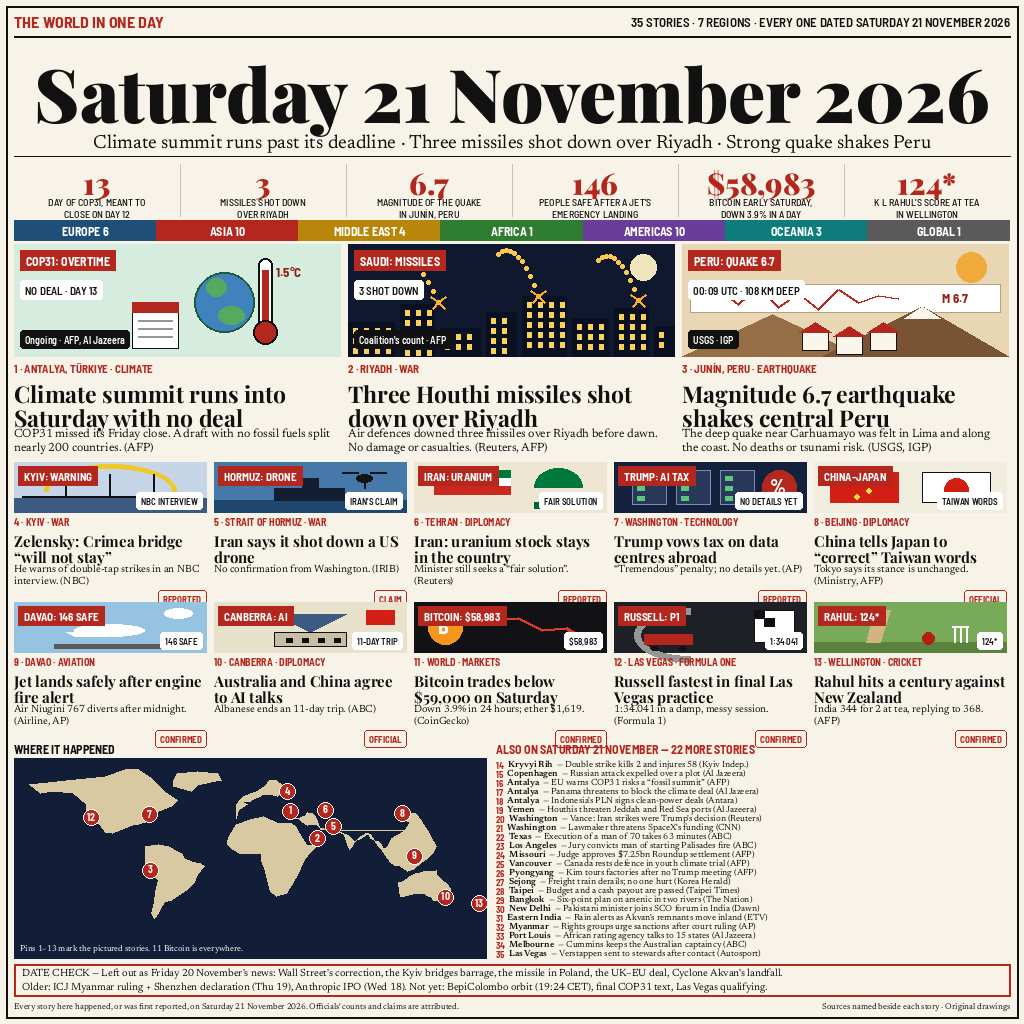
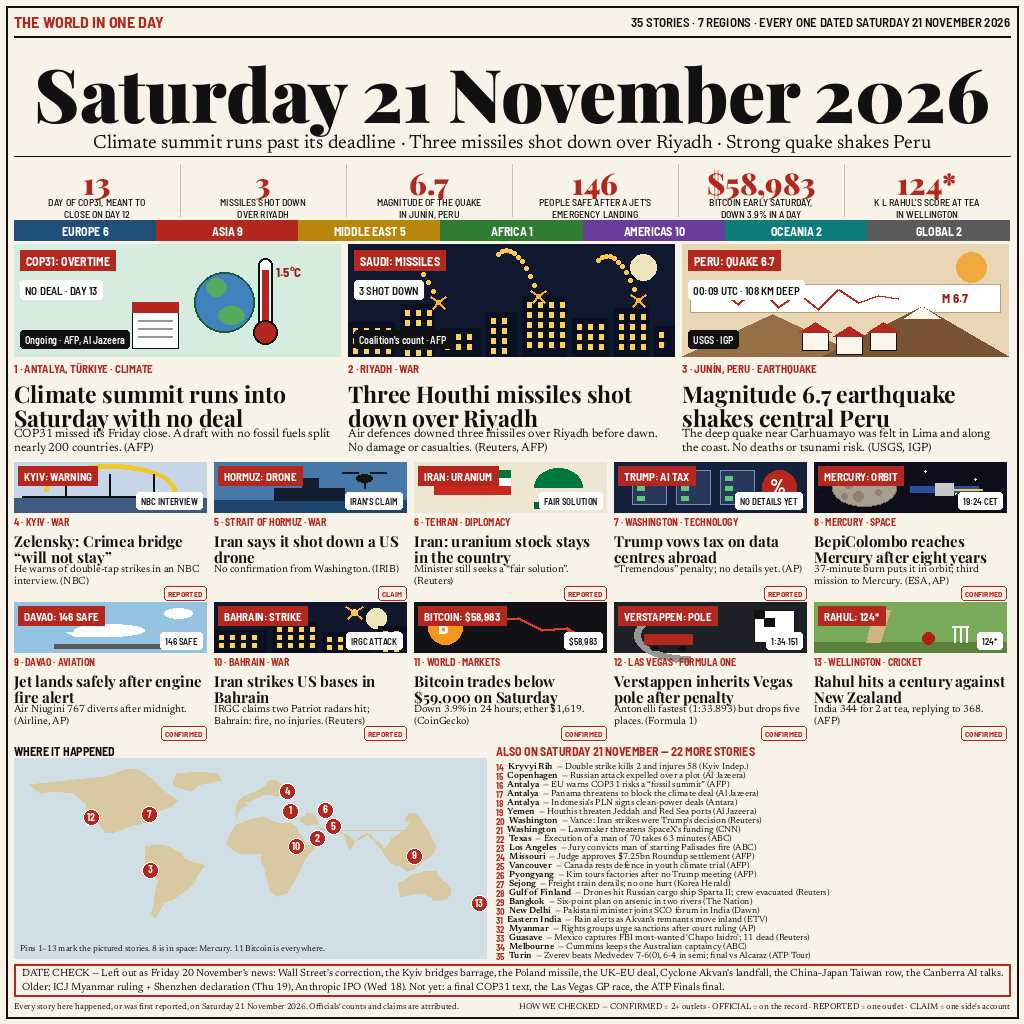
news-image-20261121 v2: Saturday-evening edition (BepiColombo, Bahrain, Vegas quali)
- Card 8: BepiColombo reaches Mercury (19:24 CET, CONFIRMED) replaces
  Fri-20 China-Japan card; card 10: Iran strikes US bases in Bahrain
  (REPORTED, IRGC claim attributed) replaces Fri-20 Canberra AI card
- Card 12: Las Vegas qualifying (Verstappen inherits pole, 1:34.151)
- Briefs: Sparta II drone strike (28), Chapo Isidro capture (33),
  Zverev beats Medvedev (35)
- Layout fix: tag chips shrunk (font 8, pad 4, ky+70), bottom headers
  to y=744 - chip/header overlap gone
- Pale map (sea 208,222,230), pin 8 removed (in space: Mercury),
  pin 10 moved to Bahrain; HOW WE CHECKED legend in footer
- DATE CHECK rewritten: Fri-20 list gains the two displaced cards;
  BepiColombo out of Not yet
- Image 1024x1024, 182,364 bytes (q54), deterministic

diff --git a/compose.py b/compose.py
@@ -8,7 +8,7 @@ field (see ~/workspace/makefun/news21-analysis/field-analysis.md):
 masthead + huge serif date + subhead + 6-figure numbers strip +
 coloured segmented region bar + 3 large illustrated leads + 10
 illustrated cards with banner kickers + data chips + CONFIRMED/CLAIM/
-REPORTED tag chips + dark navy map with numbered pins + 22 briefs +
+REPORTED tag chips + pale map with numbered pins + 22 briefs +
 boxed DATE CHECK + sources footer.
 """
 
@@ -23,7 +23,7 @@ FONTS = os.path.join(HERE, "fonts")
 PAPER = (247, 243, 232)
 INK = (17, 17, 17)
 NAVY = (20, 33, 61)
-NAVY_MAP = (18, 30, 56)
+SEA_PALE = (208, 222, 230)  # pale sea, top-3 consensus (v2)
 RED = (179, 39, 30)
 RED_DARK = (150, 28, 22)
 CREAM_PANEL = (250, 246, 236)
@@ -38,12 +38,12 @@ TEAL = (14, 124, 123)
 
 REGION_COLORS = [
     ("EUROPE", 6, BLUE),
-    ("ASIA", 10, RED),
-    ("MIDDLE EAST", 4, GOLD),
+    ("ASIA", 9, RED),
+    ("MIDDLE EAST", 5, GOLD),
     ("AFRICA", 1, GREEN),
     ("AMERICAS", 10, PURPLE),
-    ("OCEANIA", 3, TEAL),
-    ("GLOBAL", 1, GREY),
+    ("OCEANIA", 2, TEAL),
+    ("GLOBAL", 2, GREY),
 ]
 
 
@@ -179,26 +179,29 @@ CARDS = [
          data="NO DETAILS YET", tag="REPORTED",
          head="Trump vows tax on data centres abroad",
          deck="\u201cTremendous\u201d penalty; no details yet. (AP)"),
-    dict(num=8, place="BEIJING", beat="DIPLOMACY", kicker="CHINA\u2013JAPAN",
-         data="TAIWAN WORDS", tag="OFFICIAL",
-         head="China tells Japan to \u201ccorrect\u201d Taiwan words",
-         deck="Tokyo says its stance is unchanged. (Ministry, AFP)"),
+    dict(num=8, place="MERCURY", beat="SPACE", kicker="MERCURY: ORBIT",
+         data="19:24 CET", tag="CONFIRMED",
+         head="BepiColombo reaches Mercury after eight years",
+         deck=("37-minute burn puts it in orbit; third mission to Mercury. "
+               "(ESA, AP)")),
     dict(num=9, place="DAVAO", beat="AVIATION", kicker="DAVAO: 146 SAFE",
          data="146 SAFE", tag="CONFIRMED",
          head="Jet lands safely after engine fire alert",
          deck="Air Niugini 767 diverts after midnight. (Airline, AP)"),
-    dict(num=10, place="CANBERRA", beat="DIPLOMACY", kicker="CANBERRA: AI",
-         data="11-DAY TRIP", tag="OFFICIAL",
-         head="Australia and China agree to AI talks",
-         deck="Albanese ends an 11-day trip. (ABC)"),
+    dict(num=10, place="BAHRAIN", beat="WAR", kicker="BAHRAIN: STRIKE",
+         data="IRGC ATTACK", tag="REPORTED",
+         head="Iran strikes US bases in Bahrain",
+         deck=("IRGC claims two Patriot radars hit; Bahrain: fire, no "
+               "injuries. (Reuters)")),
     dict(num=11, place="WORLD", beat="MARKETS", kicker="BITCOIN: $58,983",
          data="$58,983", tag="CONFIRMED",
          head="Bitcoin trades below $59,000 on Saturday",
          deck="Down 3.9% in 24 hours; ether $1,619. (CoinGecko)"),
-    dict(num=12, place="LAS VEGAS", beat="FORMULA ONE", kicker="RUSSELL: P1",
-         data="1:34.041", tag="CONFIRMED",
-         head="Russell fastest in final Las Vegas practice",
-         deck="1:34.041 in a damp, messy session. (Formula 1)"),
+    dict(num=12, place="LAS VEGAS", beat="FORMULA ONE", kicker="VERSTAPPEN: POLE",
+         data="1:34.151", tag="CONFIRMED",
+         head="Verstappen inherits Vegas pole after penalty",
+         deck=("Antonelli fastest (1:33.893) but drops five places. "
+               "(Formula 1)")),
     dict(num=13, place="WELLINGTON", beat="CRICKET", kicker="RAHUL: 124*",
          data="124*", tag="CONFIRMED",
          head="Rahul hits a century against New Zealand",
@@ -220,32 +223,32 @@ BRIEFS = [
     (25, "Vancouver", "Canada rests defence in youth climate trial (AFP)"),
     (26, "Pyongyang", "Kim tours factories after no Trump meeting (AFP)"),
     (27, "Sejong", "Freight train derails; no one hurt (Korea Herald)"),
-    (28, "Taipei", "Budget and a cash payout are passed (Taipei Times)"),
+    (28, "Gulf of Finland", "Drones hit Russian cargo ship Sparta II; crew evacuated (Reuters)"),
     (29, "Bangkok", "Six-point plan on arsenic in two rivers (The Nation)"),
     (30, "New Delhi", "Pakistani minister joins SCO forum in India (Dawn)"),
     (31, "Eastern India", "Rain alerts as Akvan's remnants move inland (ETV)"),
     (32, "Myanmar", "Rights groups urge sanctions after court ruling (AP)"),
-    (33, "Port Louis", "African rating agency talks to 15 states (Al Jazeera)"),
+    (33, "Guasave", "Mexico captures FBI most-wanted 'Chapo Isidro'; 11 dead (Reuters)"),
     (34, "Melbourne", "Cummins keeps the Australian captaincy (ABC)"),
-    (35, "Las Vegas", "Verstappen sent to stewards after contact (Autosport)"),
+    (35, "Turin", "Zverev beats Medvedev 7-6(0), 6-4 in semi; final vs Alcaraz (ATP Tour)"),
 ]
 
 DATE_CHECK_L1 = ("DATE CHECK \u2014 Left out as Friday 20 November's news: Wall Street's "
-                 "fall into a correction, the Russian barrage that hit Kyiv's bridges, "
-                 "the missile that landed in Poland, the UK\u2013EU deal and Cyclone "
-                 "Akvan's landfall.")
-DATE_CHECK_L2 = ("Older still: the ICJ Myanmar ruling and the Shenzhen declaration "
-                 "(Thu 19), Anthropic's $81.3bn IPO (Wed 18). Not yet when drawn: "
-                 "BepiColombo's Mercury orbit (19:24 CET tonight), a final COP31 text, "
-                 "Las Vegas GP qualifying.")
+                 "correction, the Kyiv bridges barrage, the Poland missile, "
+                 "the UK\u2013EU deal, Cyclone Akvan's landfall, the China\u2013Japan "
+                 "Taiwan row, the Canberra AI talks.")
+DATE_CHECK_L2 = ("Older: ICJ Myanmar ruling + Shenzhen declaration (Thu 19), Anthropic "
+                 "IPO (Wed 18). Not yet: a final COP31 text, the Las Vegas GP "
+                 "race, the ATP Finals final.")
 
 TIMELINE = ("SATURDAY, HOUR BY HOUR \u2014 00:08 Davao lands \u00b7 00:09 Peru quake "
             "\u00b7 01:53 Riyadh alert \u00b7 02:47 India 344/2 \u00b7 05:37 Korea derail "
-            "\u00b7 19:24 Mercury due")
+            "\u00b7 19:24 Mercury orbit")
 
 FOOTER_L = ("Every story here happened, or was first reported, on Saturday 21 "
             "November 2026. Officials' counts and claims are attributed.")
-FOOTER_R = "Sources named beside each story \u00b7 Original drawings"
+FOOTER_R = ("HOW WE CHECKED \u2014 CONFIRMED = 2+ outlets \u00b7 OFFICIAL = on the record "
+            "\u00b7 REPORTED = one outlet \u00b7 CLAIM = one side's account")
 
 # map pins: (story num, lon, lat, dx, dy) for stories 1-13 (11 = Bitcoin, everywhere)
 PINS = [
@@ -256,9 +259,8 @@ PINS = [
     (5, 56.3, 26.5, 10, -2),
     (6, 51.4, 35.7, 8, -8),
     (7, -77.0, 38.9, 0, 0),
-    (8, 116.4, 39.9, 0, 0),
     (9, 125.6, 7.1, 0, 6),
-    (10, 149.1, -35.3, 0, 0),
+    (10, 50.5, 26.2, -20, 18),  # Bahrain, clear of pin 5 (Hormuz) and pin 2 (Riyadh)
     (12, -115.1, 36.2, -8, 0),
     (13, 174.8, -41.3, 0, 0),
 ]
@@ -430,14 +432,25 @@ def card_art(d, idx, x, y, w, h):
                             fill=(90, 200, 120))
         d.ellipse([x + 148, y + 8, x + 182, y + 42], fill=RED)
         d.text((x + 156, y + 12), "%", font=bc_b(20), fill=(255, 255, 255))
-    elif idx == 4:  # China + Japan flags
-        d.rectangle([x, y, x + w, y + h], fill=(240, 236, 222))
-        d.rectangle([x + 16, y + 10, x + 84, y + h - 10], fill=(210, 30, 20))
-        for sx, sy in [(28, 18), (44, 16), (52, 26), (40, 32)]:
-            d.ellipse([x + sx, y + sy, x + sx + 5, y + sy + 5], fill=(250, 220, 60))
-        d.rectangle([x + 108, y + 10, x + 176, y + h - 10], fill=(255, 255, 255),
+    elif idx == 4:  # BepiColombo at Mercury: cratered planet + probe
+        d.rectangle([x, y, x + w, y + h], fill=(12, 14, 28))
+        for sx, sy in [(20, 10), (60, 22), (110, 8), (160, 16), (40, 34),
+                       (140, 30)]:
+            d.ellipse([x + sx, y + sy, x + sx + 2, y + sy + 2],
+                      fill=(255, 255, 255))
+        # Mercury, cratered grey disc
+        d.ellipse([x + 18, y + 8, x + 82, y + h - 6], fill=(168, 158, 142),
+                  outline=(120, 110, 96), width=1)
+        for cx, cy, cr in [(34, 20, 6), (58, 16, 4), (44, 34, 5), (64, 30, 3),
+                           (30, 34, 3)]:
+            d.ellipse([x + cx - cr, y + cy - cr, x + cx + cr, y + cy + cr],
+                      fill=(140, 130, 116))
+        # probe body + solar panels, approaching from the right
+        d.rectangle([x + 120, y + 20, x + 140, y + 34], fill=(200, 200, 200),
                     outline=INK, width=1)
-        d.ellipse([x + 130, y + 16, x + 154, y + 40], fill=(210, 30, 20))
+        d.rectangle([x + 96, y + 24, x + 120, y + 30], fill=(40, 80, 160))
+        d.rectangle([x + 140, y + 24, x + 164, y + 30], fill=(40, 80, 160))
+        d.line([x + 140, y + 27, x + 168, y + 27], fill=(250, 200, 60), width=2)
     elif idx == 5:  # Davao plane
         d.rectangle([x, y, x + w, y + h], fill=(150, 195, 225))
         d.ellipse([x + 16, y + 10, x + 44, y + 20], fill=(255, 255, 255))
@@ -446,16 +459,25 @@ def card_art(d, idx, x, y, w, h):
         d.polygon([(x + 52, y + 30), (x + 96, y + 30), (x + 108, y + 34),
                    (x + 60, y + 34)], fill=(255, 255, 255))
         d.rectangle([x + 40, y + h - 8, x + w - 20, y + h - 4], fill=(90, 90, 90))
-    elif idx == 6:  # Canberra building + flags
-        d.rectangle([x, y, x + w, y + h], fill=(232, 226, 205))
-        d.polygon([(x + 60, y + 12), (x + 132, y + 12), (x + 96, y + 30)],
-                  fill=(60, 90, 130))
-        d.rectangle([x + 60, y + 30, x + 132, y + h - 6], fill=(200, 190, 165),
-                    outline=INK, width=1)
-        for cx in (72, 88, 104, 120):
-            d.rectangle([x + cx, y + 36, x + cx + 6, y + h - 10], fill=INK)
-        d.rectangle([x + 12, y + 8, x + 40, y + 22], fill=(30, 60, 120))
-        d.rectangle([x + 152, y + 8, x + 180, y + 22], fill=(210, 30, 20))
+    elif idx == 6:  # Bahrain strike: night sky, base buildings, fire glow
+        d.rectangle([x, y, x + w, y + h], fill=(16, 22, 44))
+        d.ellipse([x + w - 40, y + 6, x + w - 20, y + 26],
+                  fill=(240, 230, 190))
+        # low base buildings
+        for bx, bw, bh in [(0, 52, 22), (58, 44, 30), (108, 50, 20),
+                           (164, 28, 26)]:
+            d.rectangle([x + bx, y + h - bh, x + bx + bw, y + h],
+                        fill=(10, 14, 30))
+            for wy in range(y + h - bh + 5, y + h - 4, 8):
+                for wx in range(x + bx + 5, x + bx + bw - 5, 11):
+                    d.rectangle([wx, wy, wx + 4, wy + 4], fill=(250, 210, 90))
+        # two fire bursts above the base
+        for bx, by in [(70, 14), (140, 10)]:
+            for dx, dy in [(0, 0), (9, -6), (-8, -5), (7, 6), (-7, 7)]:
+                d.line([x + bx, y + by, x + bx + dx, y + by + dy],
+                       fill=(255, 170, 40), width=2)
+            d.ellipse([x + bx - 3, y + by - 3, x + bx + 3, y + by + 3],
+                      fill=(255, 200, 80))
     elif idx == 7:  # Bitcoin chart
         d.rectangle([x, y, x + w, y + h], fill=(18, 18, 22))
         d.ellipse([x + 14, y + 8, x + 48, y + 42], fill=(245, 150, 30))
@@ -571,9 +593,9 @@ def draw_card(d, card, x, y, w, h, idx):
     fit_lines(d, card["head"], pf_bold(15), w, 2, x, ky + 14, INK, 16)
     fit_lines(d, card["deck"], nr(10.5), w, 2, x, ky + 48, INK, 12)
     tag = card["tag"]
-    tf = bc_b(9)
-    tw = int(tf.getlength(tag)) + 10
-    chip(d, x + w - tw, ky + 74, tag, tf, RED, None, outline=RED)
+    tf = bc_b(8)
+    tw = int(tf.getlength(tag)) + 8
+    chip(d, x + w - tw, ky + 70, tag, tf, RED, None, pad=4, outline=RED)
 
 
 def lonlat_to_xy(lon, lat, mx, my, mw, mh):
@@ -581,7 +603,7 @@ def lonlat_to_xy(lon, lat, mx, my, mw, mh):
 
 
 def draw_map(d, mx, my, mw, mh):
-    d.rectangle([mx, my, mx + mw, my + mh], fill=NAVY_MAP)
+    d.rectangle([mx, my, mx + mw, my + mh], fill=SEA_PALE)
     for pts in LAND.values():
         xy = [lonlat_to_xy(lon, lat, mx, my, mw, mh) for lon, lat in pts]
         d.polygon(xy, fill=TAN)
@@ -595,8 +617,9 @@ def draw_map(d, mx, my, mw, mh):
         d.text((px - tf.getlength(t) / 2, py - 7), t, font=tf,
                fill=(255, 255, 255))
     d.text((mx + 6, my + mh - 14),
-           "Pins 1\u201313 mark the pictured stories. 11 Bitcoin is everywhere.",
-           font=nr(8.5), fill=(255, 255, 255))
+           "Pins 1\u201313 mark the pictured stories. 8 is in space: Mercury. "
+           "11 Bitcoin is everywhere.",
+           font=nr(8.5), fill=INK)
 
 
 def draw_briefs(d, x, y, w):
@@ -617,11 +640,12 @@ def draw_briefs(d, x, y, w):
 def draw_date_check(d, y):
     d.rectangle([14, y, 1010, y + 32], outline=RED, width=2)
     l1 = ("DATE CHECK \u2014 Left out as Friday 20 November's news: Wall Street's "
-          "correction, the Kyiv bridges barrage, the missile in Poland, the "
-          "UK\u2013EU deal, Cyclone Akvan's landfall.")
+          "correction, the Kyiv bridges barrage, the Poland missile, the "
+          "UK\u2013EU deal, Cyclone Akvan's landfall, the China\u2013Japan Taiwan "
+          "row, the Canberra AI talks.")
     l2 = ("Older: ICJ Myanmar ruling + Shenzhen declaration (Thu 19), Anthropic "
-          "IPO (Wed 18). Not yet: BepiColombo orbit (19:24 CET), final COP31 "
-          "text, Las Vegas qualifying.")
+          "IPO (Wed 18). Not yet: a final COP31 text, the Las Vegas GP race, "
+          "the ATP Finals final.")
     f = nr(10.5)
     d.text((22, y + 4), l1, font=f, fill=INK)
     d.text((22, y + 18), l2, font=f, fill=INK)
@@ -645,9 +669,9 @@ def build(quality=82):
             idx = r * 5 + c
             draw_card(d, CARDS[idx], 14 + c * (card_w + 8),
                       462 + r * 140, card_w, card_h, idx)
-    d.text((14, 742), "WHERE IT HAPPENED", font=bc_b(12), fill=INK)
+    d.text((14, 744), "WHERE IT HAPPENED", font=bc_b(12), fill=INK)
     draw_map(d, 14, 758, 472, 200)
-    draw_briefs(d, 496, 742, 514)
+    draw_briefs(d, 496, 744, 514)
     draw_date_check(d, 964)
     ff = nr(8.5)
     d.text((14, 1002), FOOTER_L, font=ff, fill=INK)
